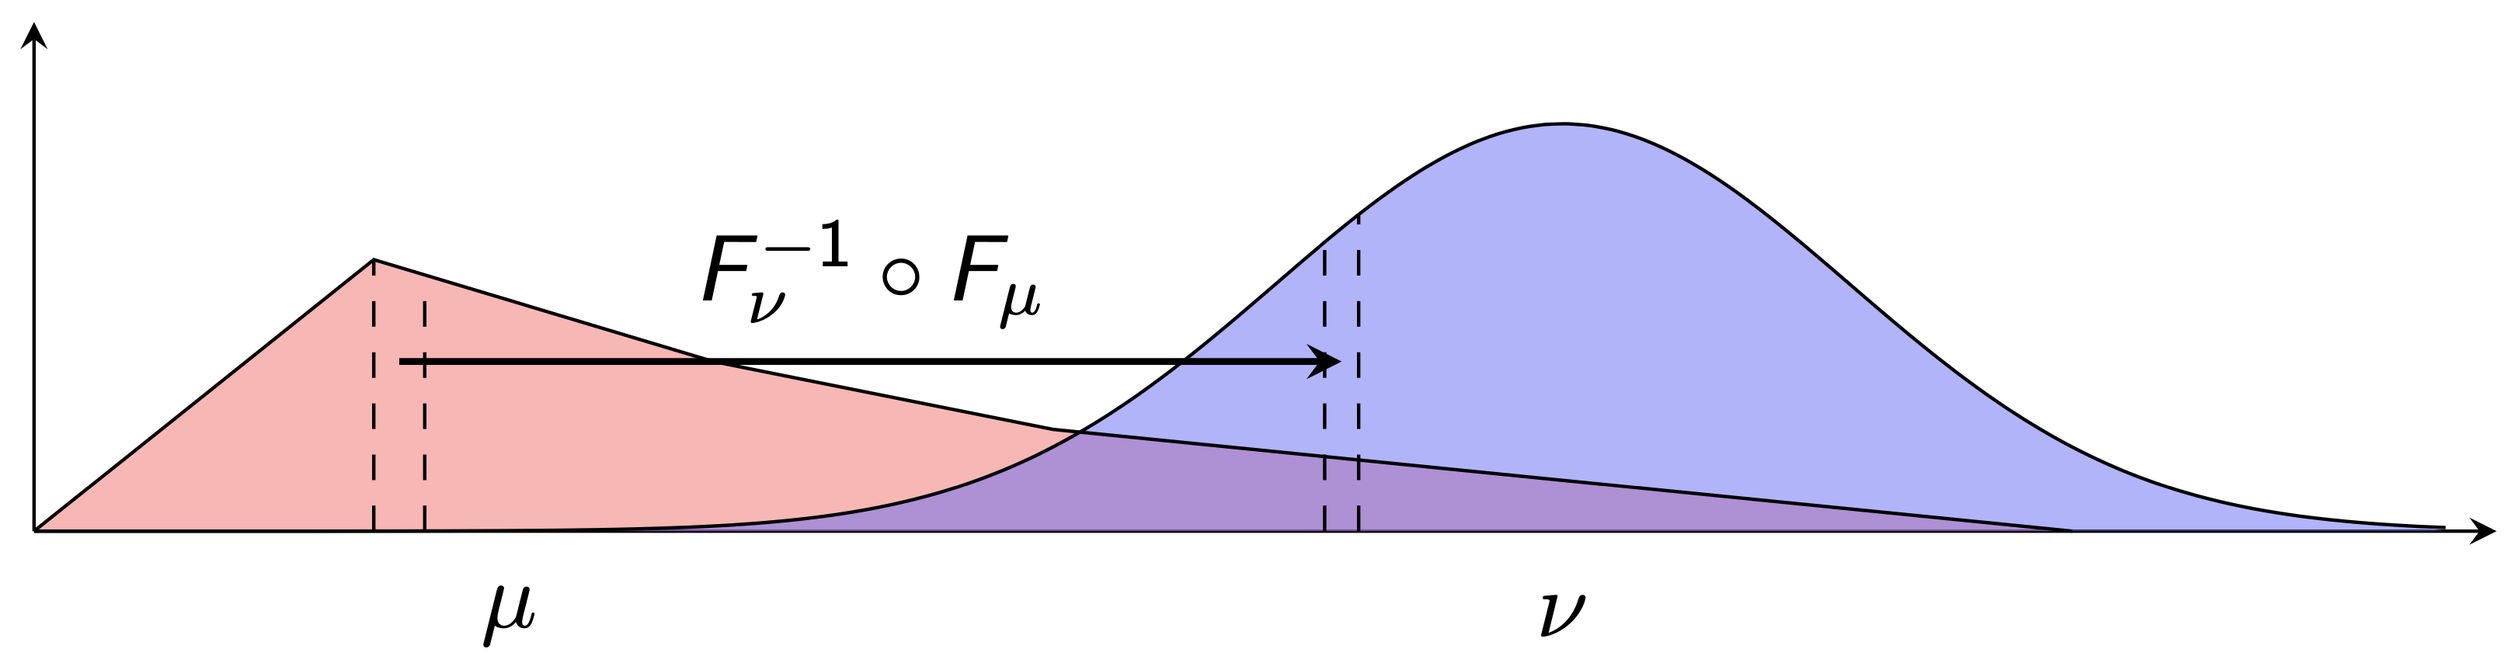
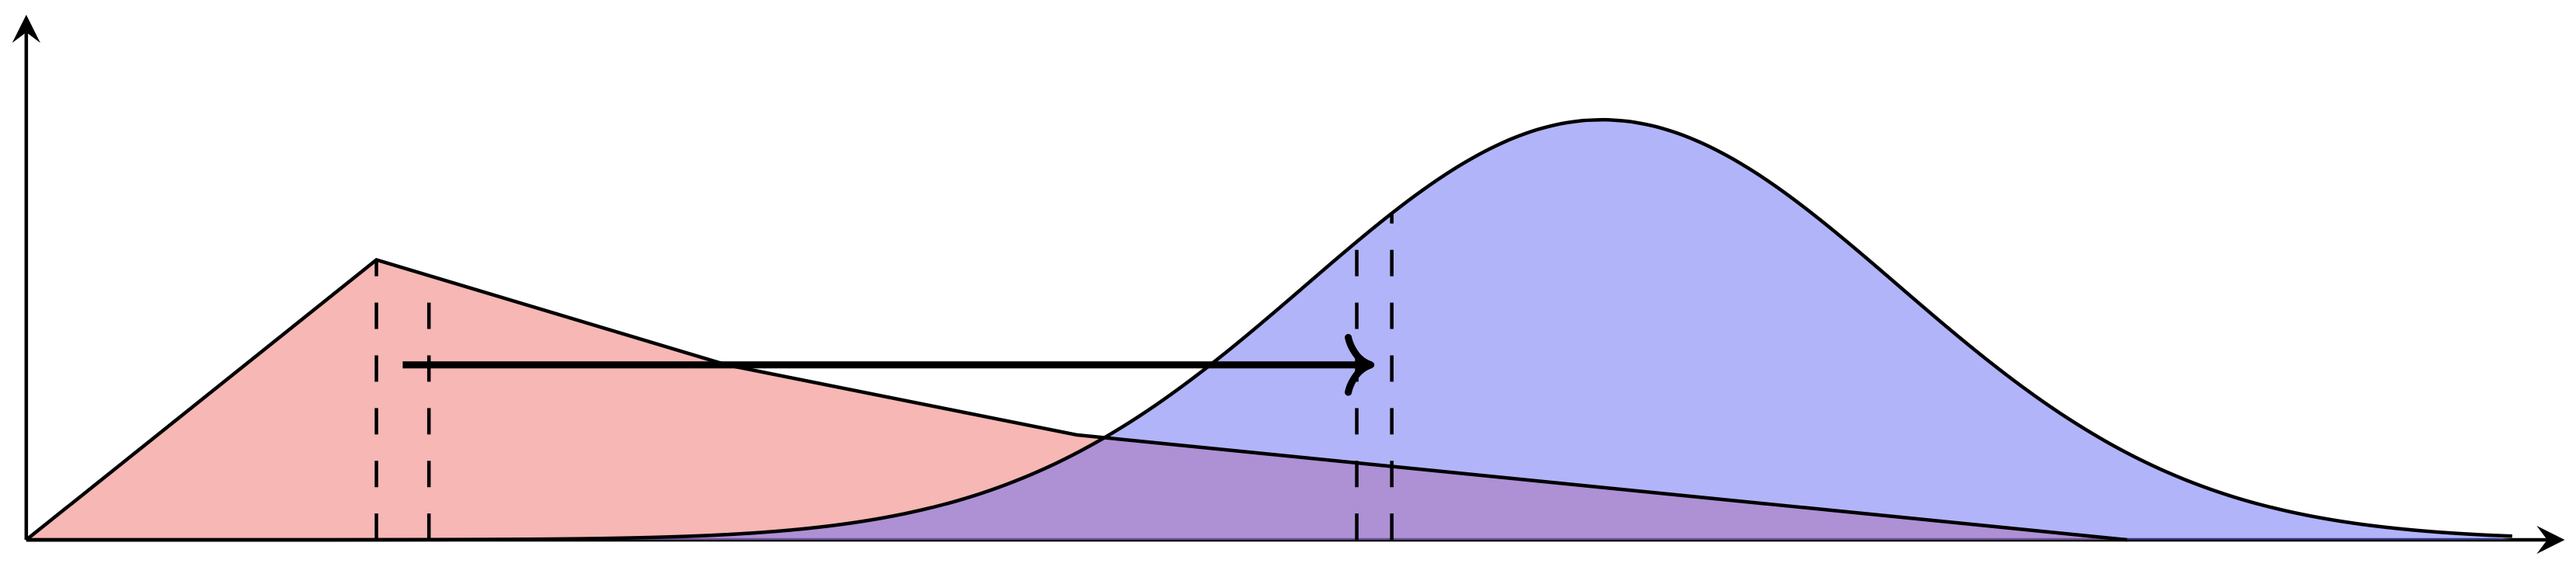
Removed math from optimal transport diagram in problem with ratings page

Changed region(s): [[0.0, 0.0301, 0.9994, 0.9644], [0.2811, 0.3315, 0.4372, 0.4822]]

diff --git a/Ratings/the-problem-with-averaging-ratings.html b/Ratings/the-problem-with-averaging-ratings.html
@@ -91,7 +91,7 @@
 	
 	<p class="aligncenter"><img style="max-width: 700px; height: auto; " src="Optimal-transport-diagram.png"></img></p>
 	
-	<p>This is known as an <i>optimal transport map</i>, and we can measure the degree to which this transformation alters Alice's rating distribution. So a natural consensus scale is given by the distribution which minimizes how much we alter everyone's rating distributions; this is an average of the personal rating scales, known as a <i>Wasserstein barycenter</i>.</p>
+	<p>This is known as an <i>optimal transport map</i>, and we can measure the degree to which this transformation alters Alice's rating distribution. So a natural consensus scale is given by the distribution which minimizes how much we alter everyone's rating distributions; this is a type of average of the personal rating scales, known as a <i>Wasserstein barycenter</i>.</p>
 	
 	<p class="aligncenter"><img style="max-width: 900px; height: auto; " src="Converting-to-consensus-scale.png"></img></p>
 	
